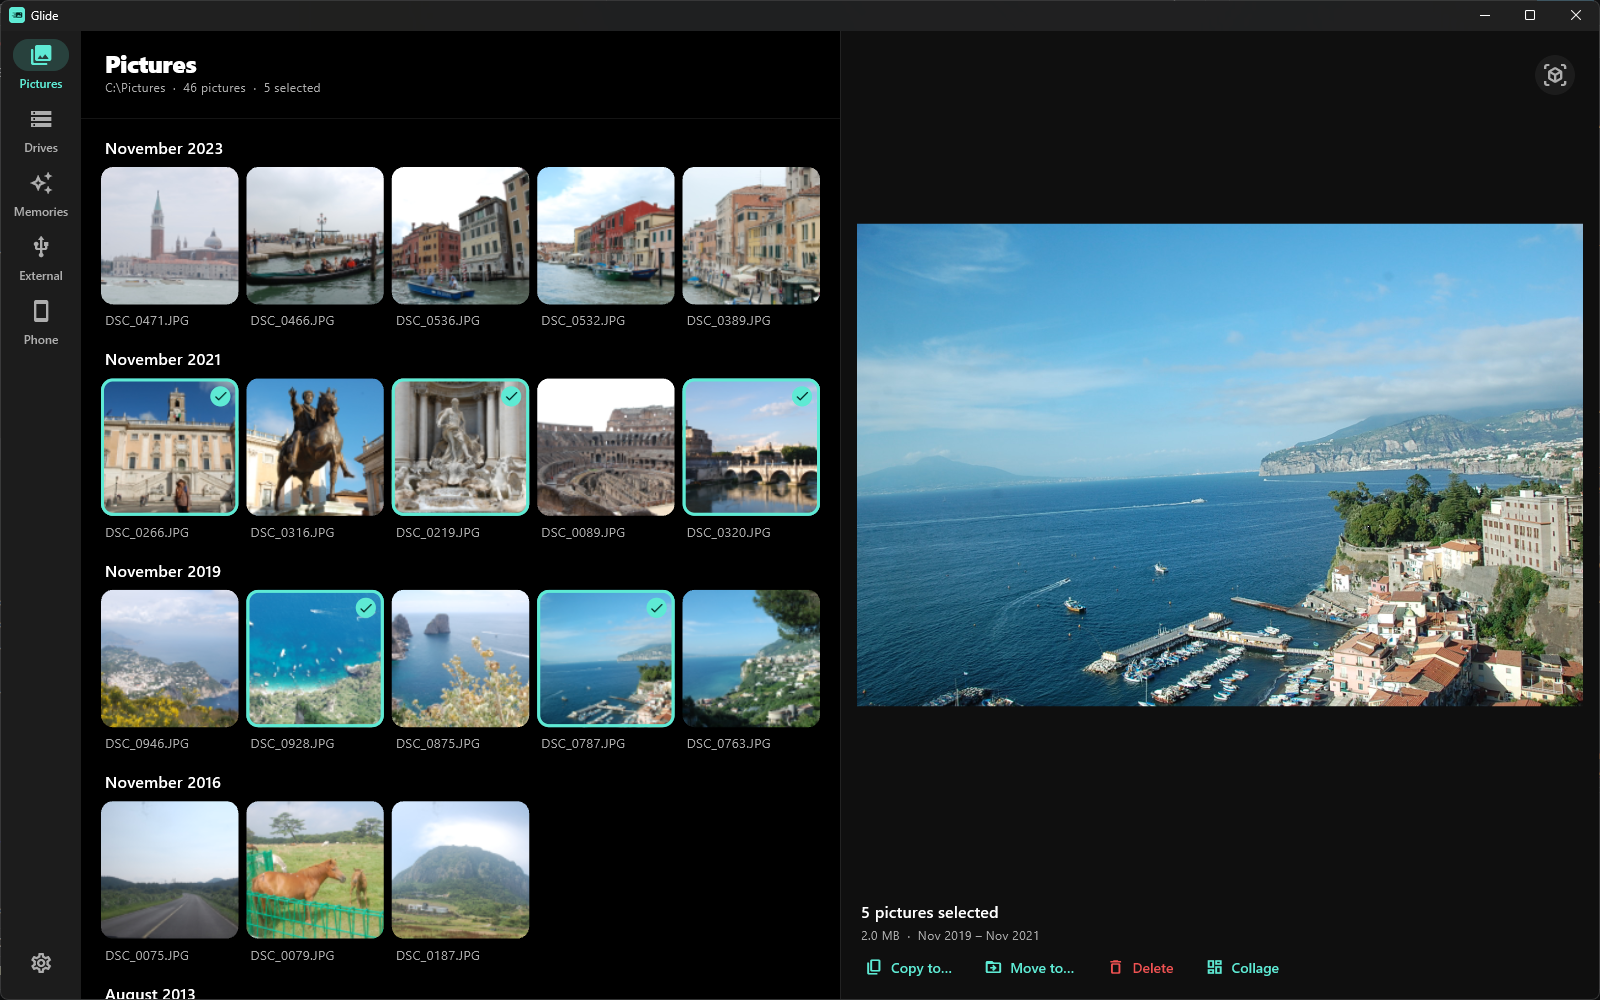
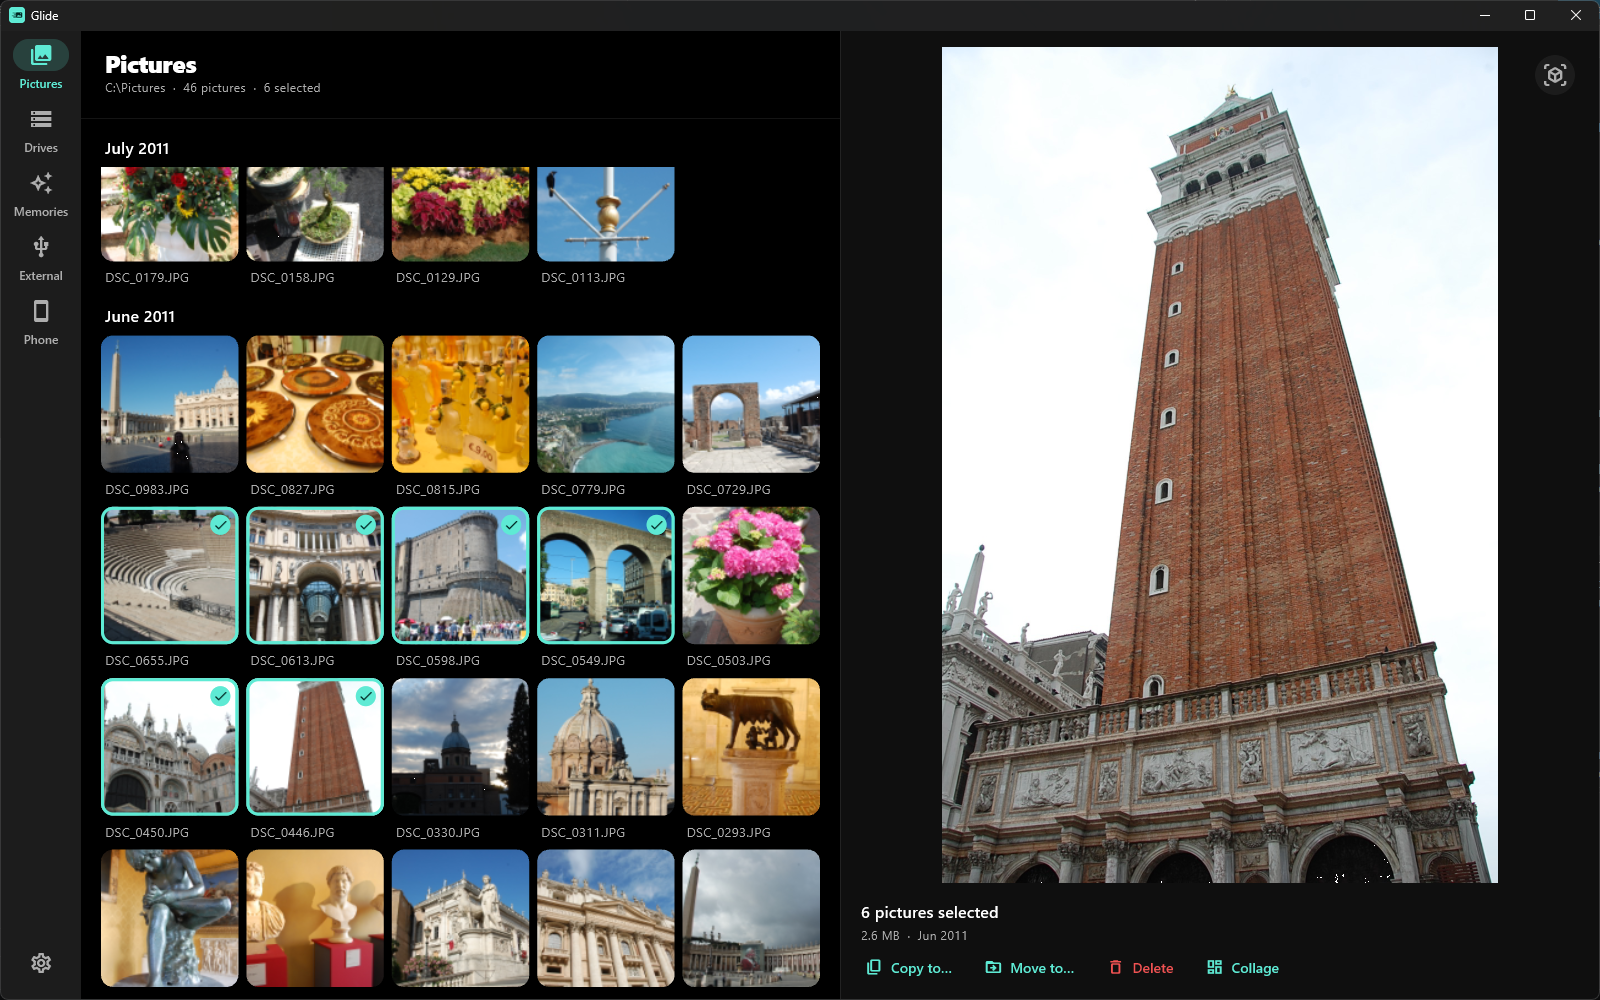
Glide: a real first screenshot, selecting shown further down, and the editor described as it saves

diff --git a/src/content/projects/glide.md b/src/content/projects/glide.md
@@ -3,7 +3,7 @@ title: Glide
 tagline: A photo viewer that shows every picture on your PC, drives and phone, newest first by month.
 icon: ../../assets/glide/icon.png
 cover: ../../assets/glide/windows-home.png
-coverAlt: Glide on Windows, showing travel photos of coastlines, Venice and Rome grouped by month, with a view over the Italian coast open in the preview pane
+coverAlt: Glide on Windows, showing trips to Venice, Rome and the Italian coast grouped by month, newest first, with a photo of Capri open beside them and its date taken and camera below
 shots:
   - src: ../../assets/glide/windows-memories.png
     alt: Glide's Memories tab with photos taken on 12 November in 2023, 2021, 2019 and 2016, each year under its own heading, and a photo of Capri open beside them
@@ -16,7 +16,7 @@ shots:
     caption: Put two pictures side by side, or drag a slider across one to reveal the other. Glide tells you how far apart they were taken.
     how: Click one picture, Ctrl+click another, then choose Compare under the preview. Switch between the slider and side by side at the top right.
   - src: ../../assets/glide/windows-select.png
-    alt: Five photos ticked across two months in Glide, with 5 pictures selected, 2.0 MB, and Copy to, Move to, Delete and Collage buttons beside them
+    alt: Six photos from June 2011 ticked in Glide, a run of four and two more below, with 6 pictures selected, 2.6 MB, and Copy to, Move to, Delete and Collage buttons beside them
     title: Tidy up in one go.
     caption: Pick out pictures as you would in File Explorer, with Ctrl and Shift, then copy, move or delete them together, or turn them into a collage.
     how: Ctrl+click to add pictures one at a time, Shift+click to take a whole run of them, or press Ctrl+A for all. The buttons appear under the preview.
@@ -73,8 +73,9 @@ this day in years past.
   shown apart.
 - **The formats cameras use:** JPG, PNG, GIF, WebP, HEIC, AVIF, TIFF and RAW files
   from most cameras.
-- **Edit a copy:** crop, rotate, light and colour adjustments, and filters. You can
-  also blur or replace the background behind the subject, found on your PC.
+- **Edit:** crop, rotate, light and colour adjustments, and filters. You can also
+  blur or replace the background behind the subject, found on your PC. Save over
+  the original, or keep it and save a copy.
 - **Make something new:** cut the subject out as a sticker, put a few pictures
   together in a collage, or compare two side by side, then and now.
 - **Tidy up:** rename, copy, move, or send pictures to the Recycle Bin, one at a time
